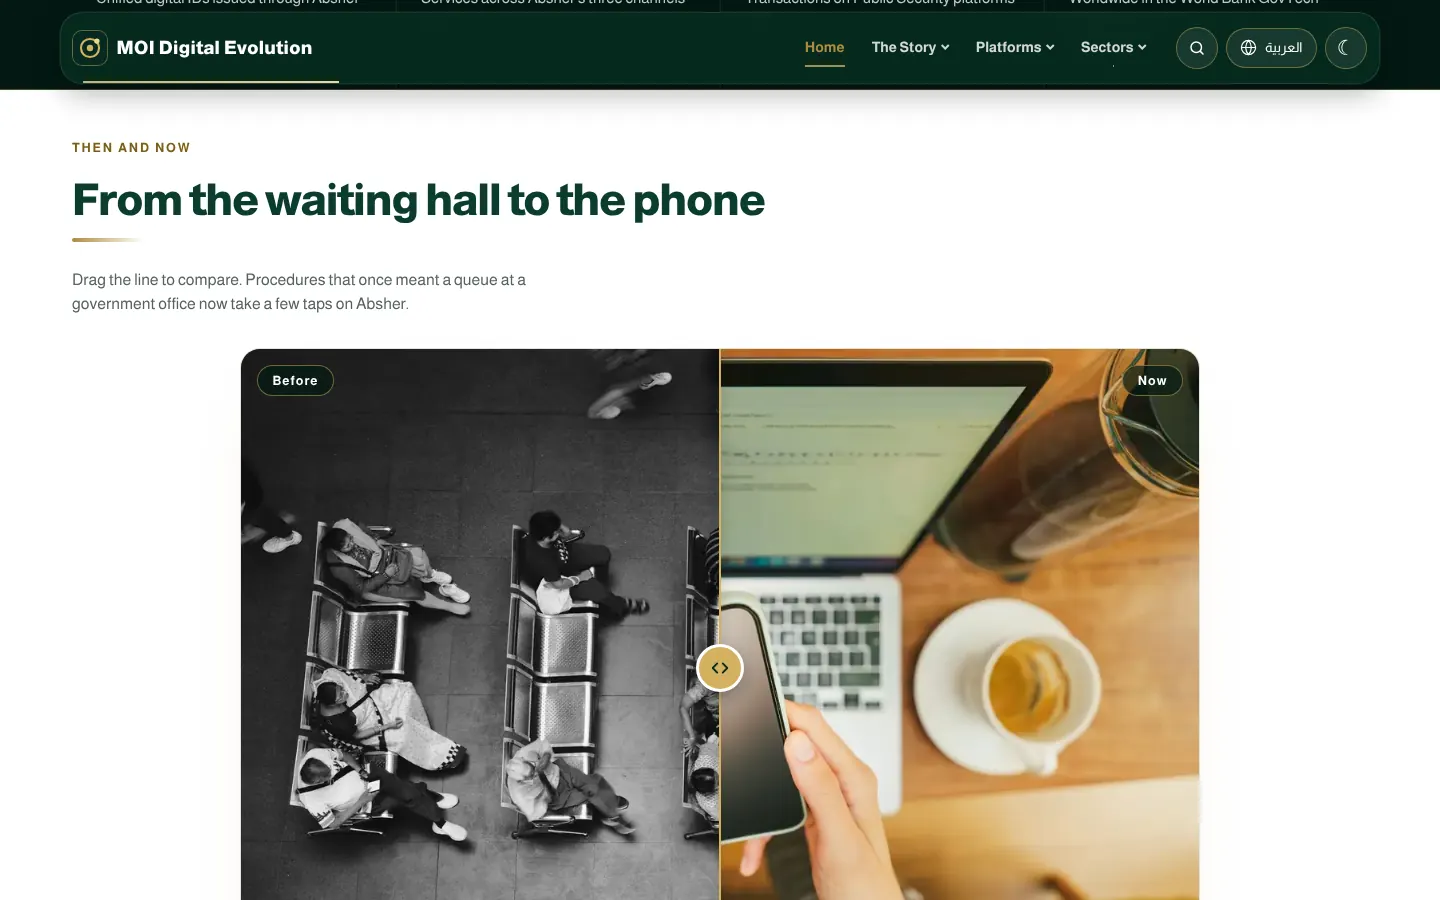
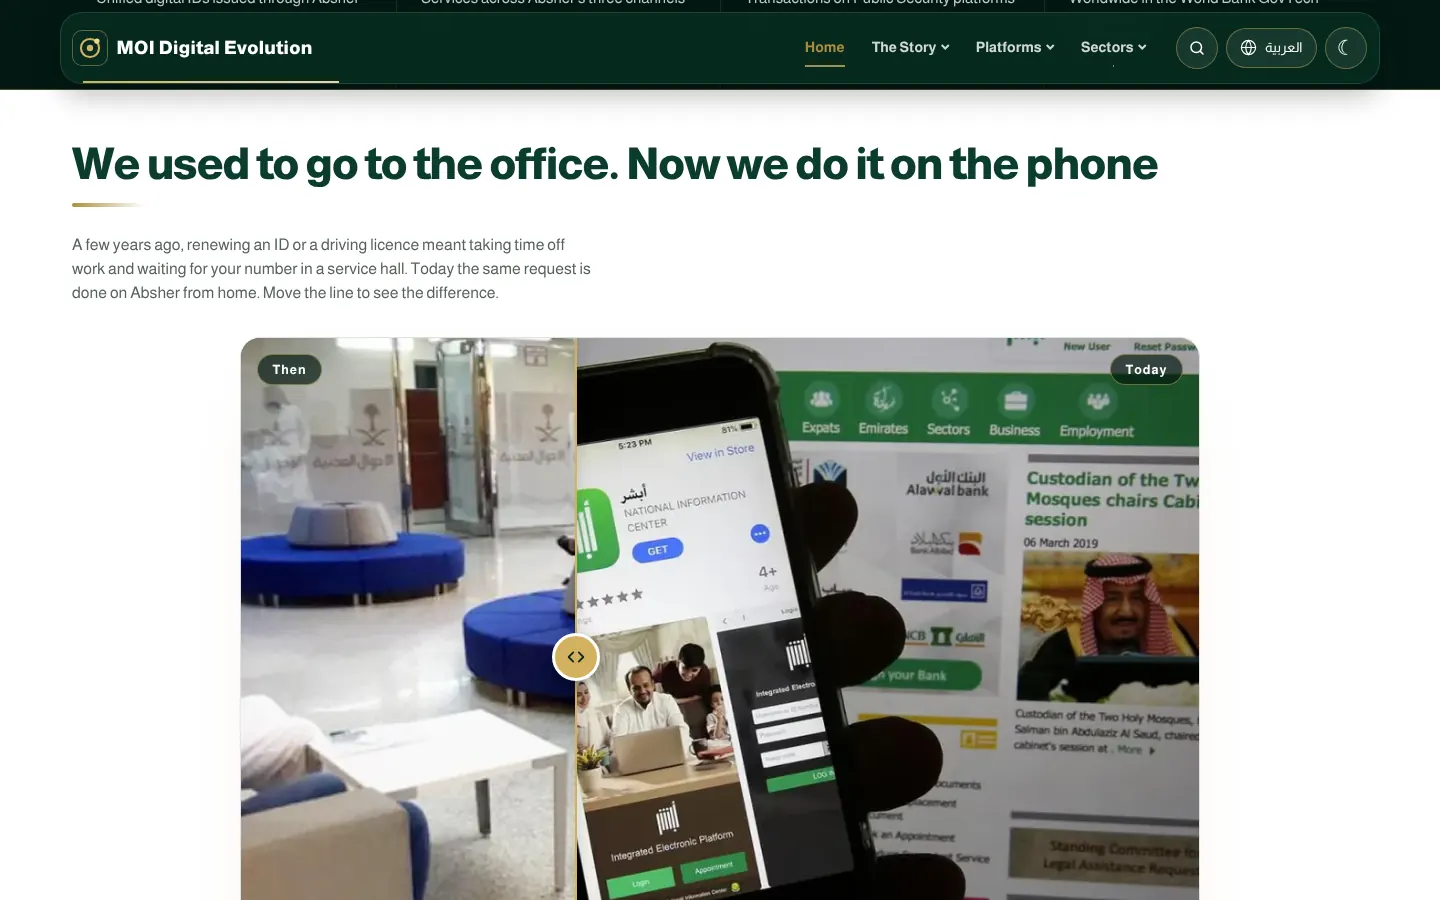
Recrop the 'today' photo and start the slider at 35% so the phone shows in both languages

diff --git a/portal/templates/portal/home.html b/portal/templates/portal/home.html
@@ -59,7 +59,8 @@
       <p class="compare-intro">{{ home.compare.text }}</p>
 
       {# The "before" photo sits on top and is clipped to --pos; the range input moves it #}
-      <div class="compare" data-compare style="--pos: 50%;">
+      {# Starts at 35% so the phone in the "today" photo is visible in both reading directions #}
+      <div class="compare" data-compare style="--pos: 35%;">
         <img class="compare-img" src="{% static 'portal/img/after-app.webp' %}"
              alt="{{ home.compare.after_alt }}" width="1200" height="800" loading="lazy" decoding="async">
         <div class="compare-before">
@@ -80,7 +81,7 @@
         </div>
 
         {# A real range input: works with mouse, touch and keyboard arrows #}
-        <input class="compare-range" type="range" min="0" max="100" value="50"
+        <input class="compare-range" type="range" min="0" max="100" value="35"
                aria-label="{{ home.compare.slider_label }}">
       </div>
     </div>
